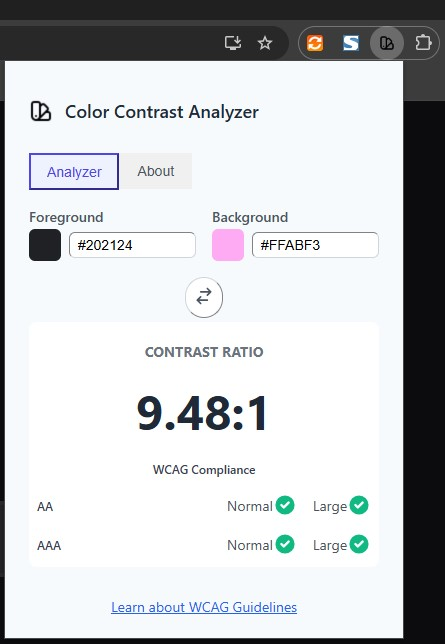
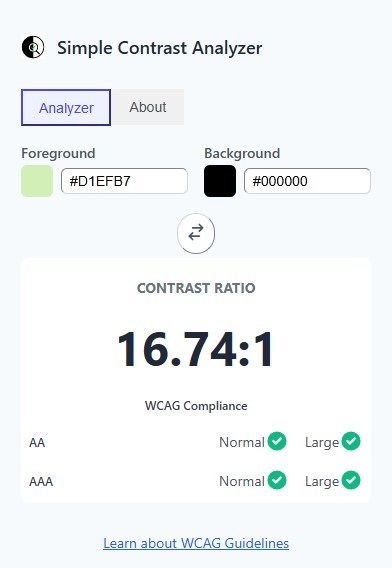
Bug Fix

Changed region(s): [[0.0, 0.0, 1.0, 1.0], [0.0612, 0.838, 0.1531, 0.868], [0.0612, 0.7782, 0.1224, 0.8081]]

diff --git a/popup.html b/popup.html
@@ -4,7 +4,7 @@
 <head>
     <meta charset="UTF-8">
     <meta name="viewport" content="width=device-width, initial-scale=1.0">
-    <title>Color Contrast Analyzer</title>
+    <title>Simple Contrast Analyzer</title>
     <link rel="stylesheet" href="style.css">
 </head>
 
@@ -14,7 +14,7 @@
         <header class="flex items-center justify-between pb-2 border-b border-gray-200">
             <div class="flex items-center space-x-3">
                 <img src="icons/icon48.png" class="w-6 h-6" alt="Icon">
-                <h1 class="text-lg font-semibold text-gray-800">Color Contrast Analyzer</h1>
+                <h1 class="text-lg font-semibold text-gray-800">Simple Contrast Analyzer</h1>
             </div>
         </header>
 
